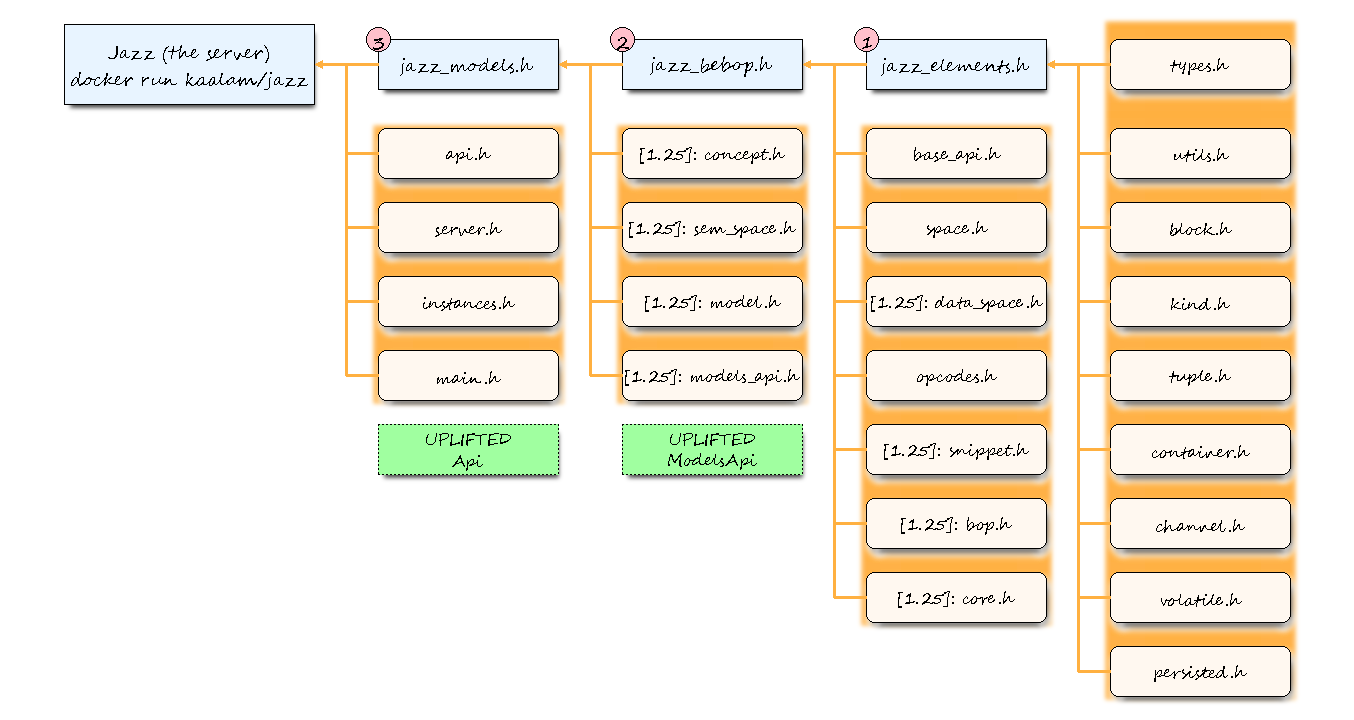
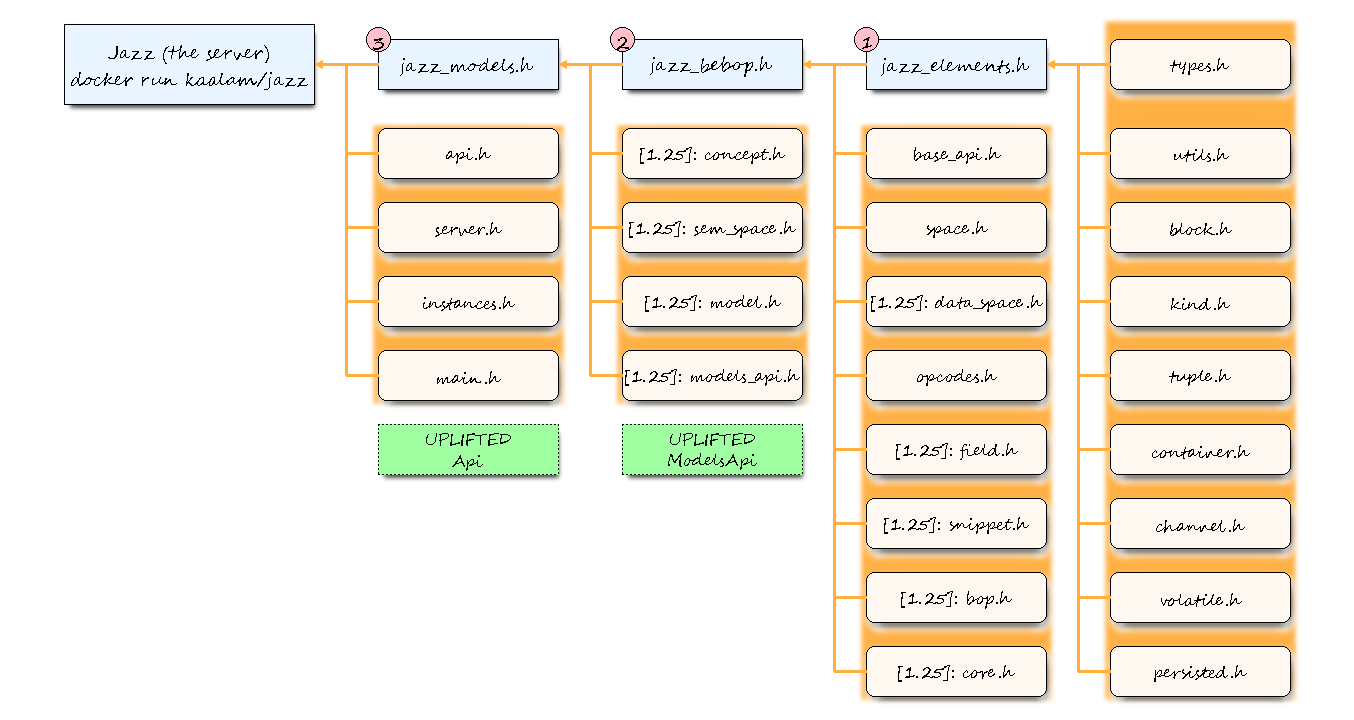
Refines service architecture documentation by updating relationships between Space, Field, and Snippet

Changed region(s): [[0.6204, 0.825, 0.7755, 0.9778], [0.6514, 0.7028, 0.7445, 0.7333], [0.6514, 0.6111, 0.7445, 0.6417]]

diff --git a/develop/rfc2/services_apis.md b/develop/rfc2/services_apis.md
@@ -110,8 +110,9 @@ including uplifted ones) and provides a `start_service()`/`stop_service()` mecha
 ```
 Service ----------> OpCodes           [ONNX language]
    +--------------> Bop               [Compiler and decompiler]
-   +--------------> Space             [Parent of DataSpace, Snippet and SemSpace]
+   +--------------> Space             [Parent of DataSpace, Field and Snippet]
    |                  +---> DataSpace [Abstracts tables and indexing]
+   |                  +---> Field	  [Storage for snippets, parent of SemSpace]
    |                  +---> Snippet   [Code snippet, parent of Concept]
    +-> Container -> BaseAPI           [Manages petitions to Containers]
                       +---> Core      [Compiles, runs code and serves]
@@ -123,6 +124,7 @@ Service ----------> OpCodes           [ONNX language]
   * `Space`: A common ancestor of `DataSpace`, `Snippet` and `SemSpace` that provides the space abstraction to blocks inside containers.
   * `OpCodes`: The ONNX language definition
   * `Bop`: The compiler and decompiler
+  * `Field`: A `Space` to store snippets
   * `Snippet`: A `Space` to manage executable code, contains: requirements, source and object code
   * `Core`: (as in a CPU-core) A wrapper around the onnx-runtime the manages data objects, sessions and other onnx-runtime details
 
@@ -144,7 +146,7 @@ namespace and an **informal** natural language that is converted into compilable
 ## Models are a superior form of code execution
 
 ```
-Service -> Space ------------------> SemSpace  [Serves Concepts]
+Service -> Space -----> Field -----> SemSpace  [Serves Concepts]
    |         +--------> Snippet ---> Concept   [Generalizes Snippet to informal code]
    +-----> Container --------------> Model     [uses Core to compile and run solutions]
                +------> BaseAPI ---> ModelsAPI [serves Model descendants]
